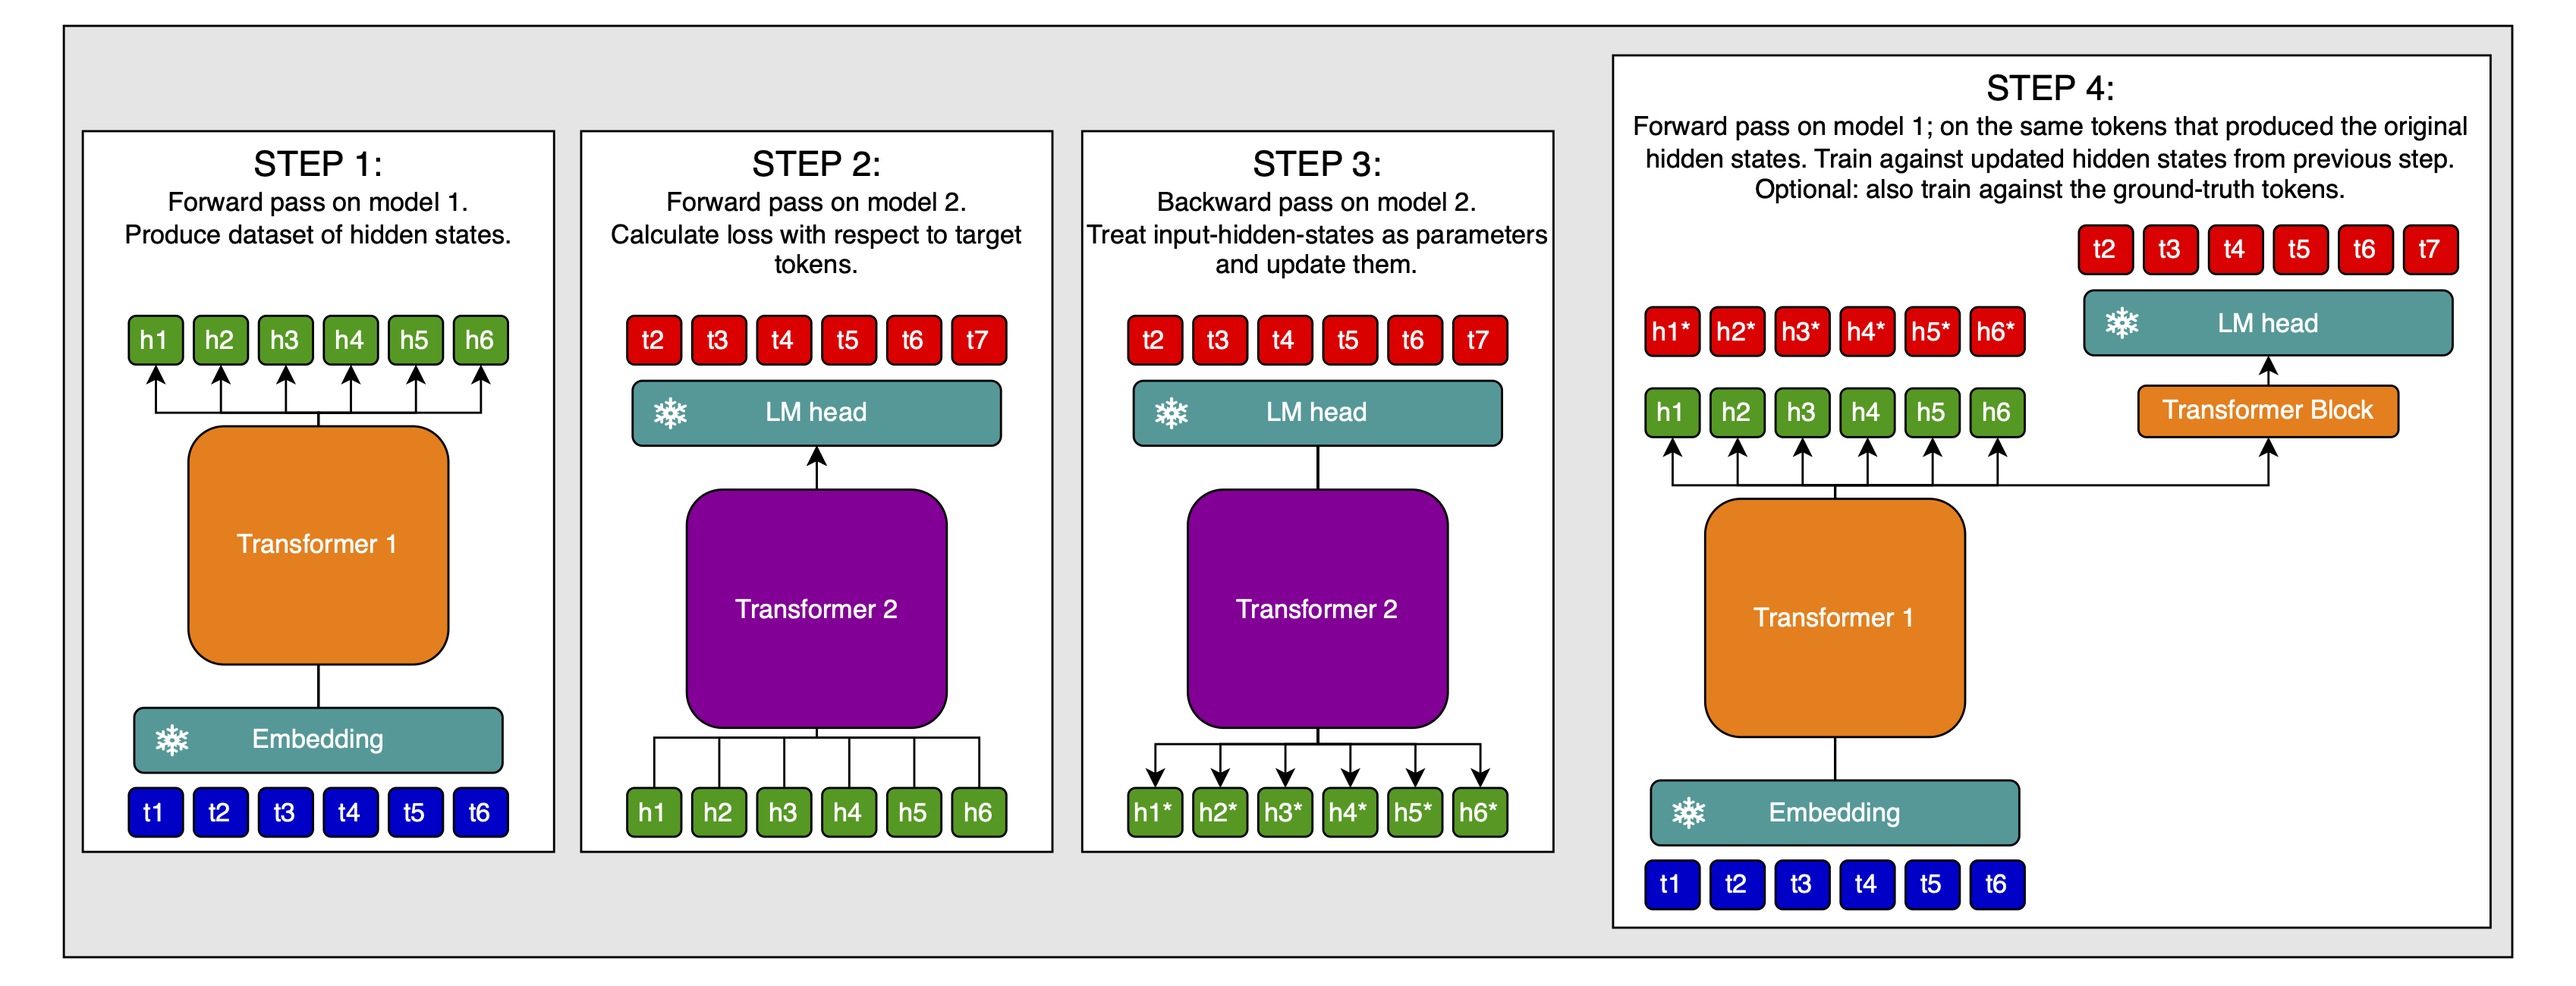
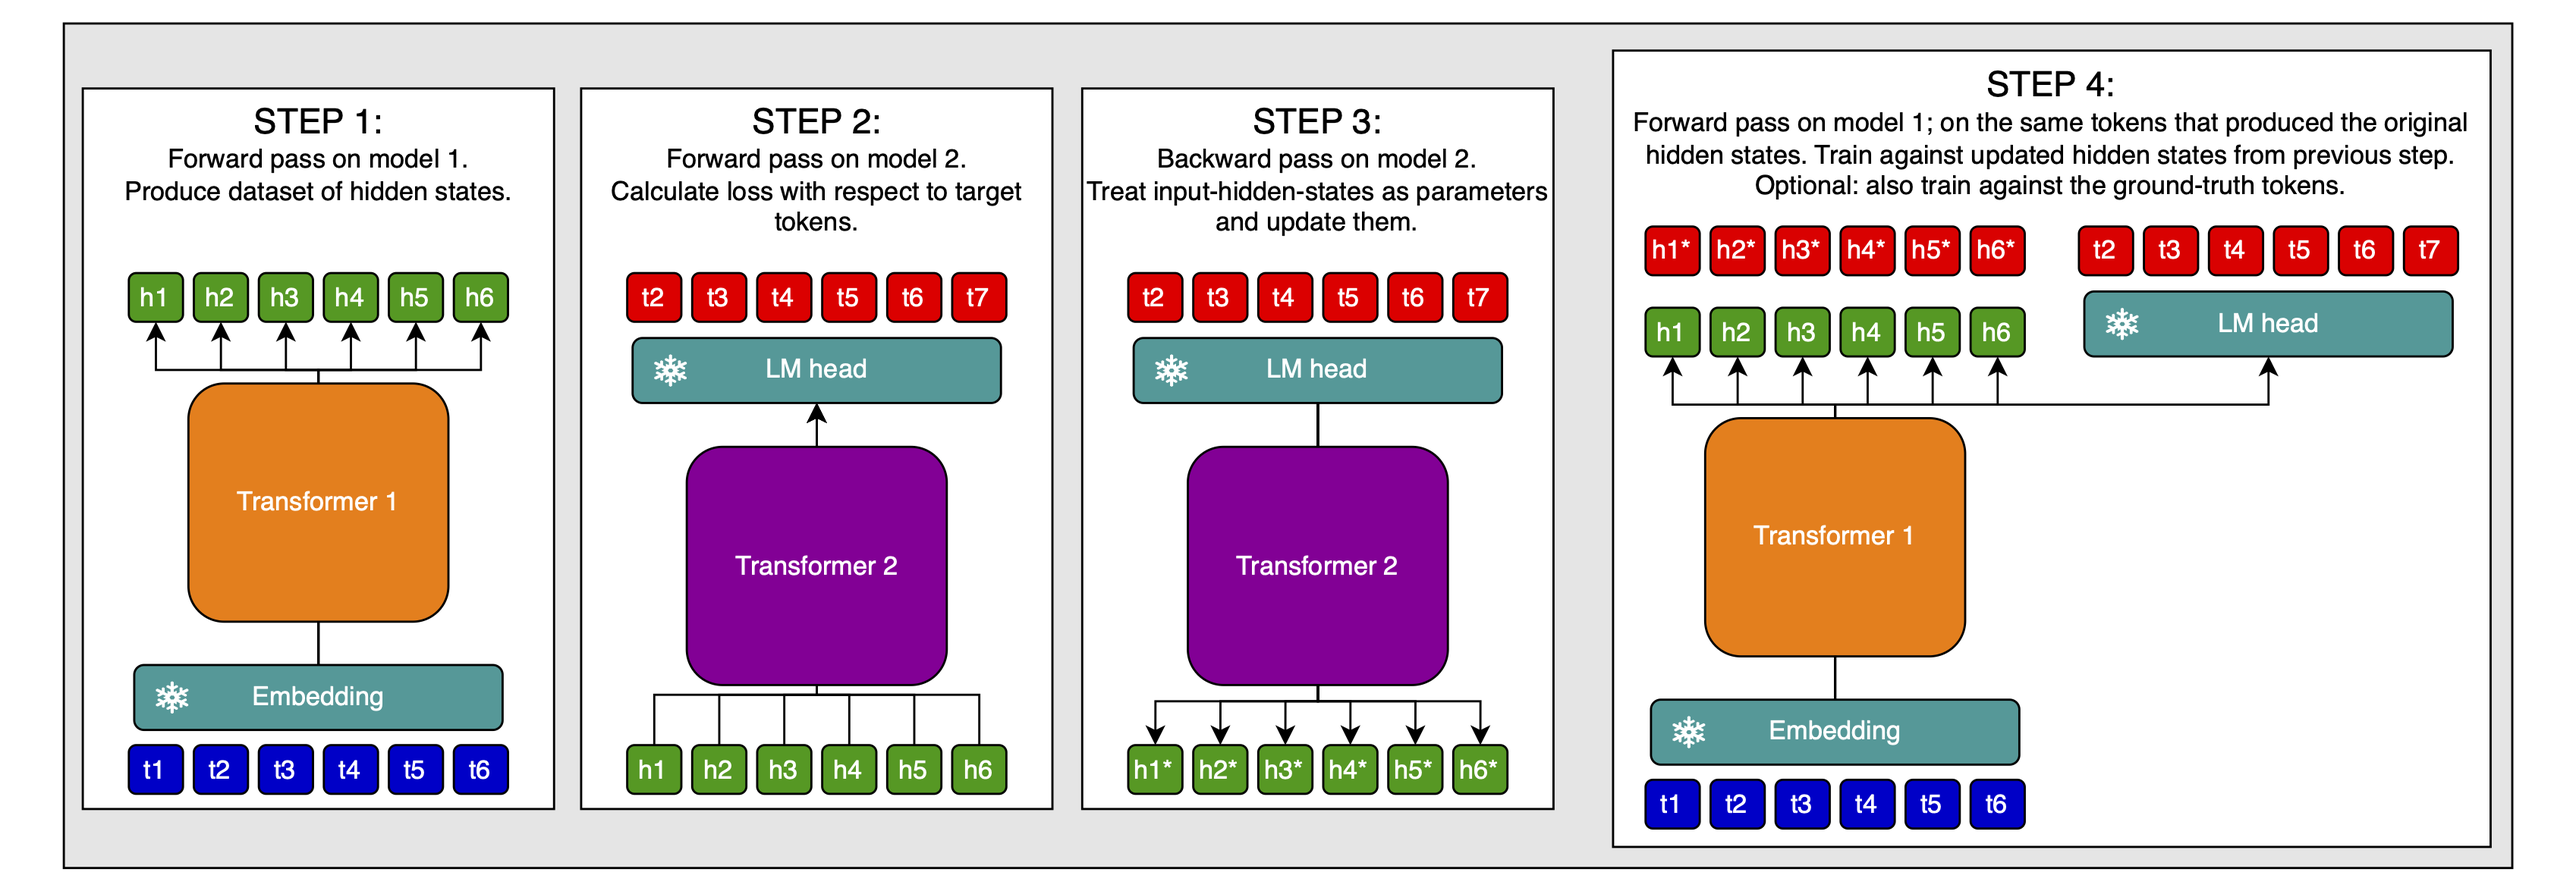
decentralized-training: removed split-head part

diff --git a/contents/truly-decentralized-training/article.md b/contents/truly-decentralized-training/article.md
@@ -50,10 +50,12 @@ There are four points we need to take care of:
 There are three ways I see to do this:
 
 1. Only do causal prediction with the shallow model used to train the embedding & unembedding weights. Do BERT/UL2-style denoising with all other models, then stack the shallow model on top of the rest to make the prediction causal.
-2. Looping latents
+2. Looping latents / recycling hidden states
 3. Post-training (though I will get to that in its own section)
 
 Post-training obviously works together with both of the other options. I'm less sure whether the other two are compatible, but that doesn't matter.
+
+And again, I suspect that this isn't even a big problem. I just want to preempt any potential problems with possible solutions.
 
 ### Denoising for hidden-state alignment
 
@@ -72,19 +74,13 @@ The idea is very simple: Train bidirectional models on BERT/UL2-style denoising 
 **Disadvantages:** I see two disadvantages to this approach:
 
 1. During inference, we cannot use a kv-cache in bidirectional models. This means that while we can in principle use the model stack as a causal model, we have to compute the entire attention matrix at every step, which is really expensive.
-2. *If* we need to post-train the model stack in order to align the individual models' hidden states, then we need to use a causal mask in every model, or we will be unable to train all token positions in parallel. Changing a bidirectional model to a causal model is not trivial, and after this post-training we might have to use a causal mask in all models during inference as well, which gets rid of all the advantages discussed above. 
+2. *If* we need to post-train the model stack in order to align the individual models' hidden states, then we need to use a causal mask in every model, or we will be unable to train all token positions in parallel. Changing a bidirectional model to a causal model is not trivial, and after this post-training we might have to use a causal mask in all models during inference as well, which gets rid of all the advantages discussed above.
 
 These disadvantages are significant. It seems likly that simply using causal models only is the better choice.
 
 In the next sections, I will discuss techniques that work for a model stack of either causal or bidirectional models.
 
-### Loop hidden states (and split the head)
-
-I will present the following techniques with causal models, because they seem more useful for those, and I need to pick one type of model to illustrate them. Again, I see no reason why they wouldn't work for bidirectional models as well.
-
-This is optional, and if it doesn't work it would not invalidate the first part of the article.
-
-#### Loop hidden states
+### Loop hidden states
 
 In [COCONUT]((https://arxiv.org/abs/2412.06769)), the authors post-train a model to recycle its output hidden states at the input to replace Chain of Thought (CoT) traces with latent reasoning. The fact that this works well makes me think two things:
 
@@ -118,38 +114,7 @@ The process:
 
 For more details, see the linked article.
 
-> Again, this shows using a split head (the extra transformer block), but that is not required for latent-looping to work.
-
 Caveat: this is now speculation built on top of speculation. I think it's a cool idea and that it will likely work with a bit of tuning, but there is currently no strong evidence for it.
-
-#### Split head
-
-What do I mean by splitting the head?
-
-I have a contention that we shouldn't see the language head as consisting only of a single FC layer, but at least one prior transformer block, too. In normal transformers, modalities are in conflict with each other, at least if they are trained in an early-fusion manner. I suspect that this is partially because we decode the same hidden state into two different modalities, with only a single FC layer in between. Adding one or two transformer blocks between the shared hidden state and the FC layer might solve this issue. I will write a longer article about this, but it's already relevant here.
-
-In the specific case of stacking models, splitting the head would mean that more abstract representations of the input are fed into the second model, which I think would be closer to a model that is trained with all the models' layers from the start. This might be helped by also cutting off the first layer of model 2 when stacking, because the first transformer block only ever deals with the embeddings of one-hot-encoded tokens, not with abstract representations. I will draw it in like that in the illustration, but whether or not that second part is a good idea must be evaluated empirically.
-
-![Model stacking with split head](images/split-heads.png)
-
-**Advantages** of this approach:
-
-- Preserve the rich internal representations of the models throughout the model stack, instead of collapsing into a representation that is easy to decode after every model.
-- We can now more easily use dynamic compute: simply decode at every model in the stack, and only pass the hidden states on if the prediction distribution has high entropy; a.k.a. when the model is uncertain about the next token, we let the next model refine the hidden states and decode again. Yes, this would likely be possible without splitting the head, but I strongly suspect that it will work significantly better with it, and be much less in conflict with the continuous computation of the full model stack.
-- This might be better for multi-modality, though I'm really not sure about that (and it's a point that is independent of the model-stacking approach).
-- Compatability with [DeepSeek V3](https://github.com/deepseek-ai/DeepSeek-V3)-style Multi-Token Prediction (this is just a nice little bonus), and other techniques (again, possible before, but likely better with this change).
-
-One **disadvantage** of this approach is that it worsens our second concern: that the representations in the hidden states don't align. Without this change, the outputs of model 1 are decoded by the same weights that encode the inputs to model 2, so a certain level of alignment can be expected. However, with this change, that is no longer true. This almost certainly necessitates post-training, as addressed below.
-
-> One thing that might actually help here is to do multi-model training; then, the model will already be trained to include abstract information into its last hidden state, which can be decoded by two different small models: the language decoder and the image decoder. This is truly pure speculation, though.
-
-Still, I believe that&mdash;should we get post-training as described further below to work well&mdash;the advantages of this approach might outweigh the disadvantages. As everything in this article, though, this is a question of empirical testing.
-
-Either way, as most of this article, this is optional, and looping the hidden states, as described below, can be done independently of splitting the head if that doesn't work.
-
-For the sake of completeness, here is an illustration of hidden-state-recycling with the split head:
-
-![Hidden-state recycling with split head](images/coconut-parallel-updated-split-head.png)
 
 ## Aligning the representations between models
 
